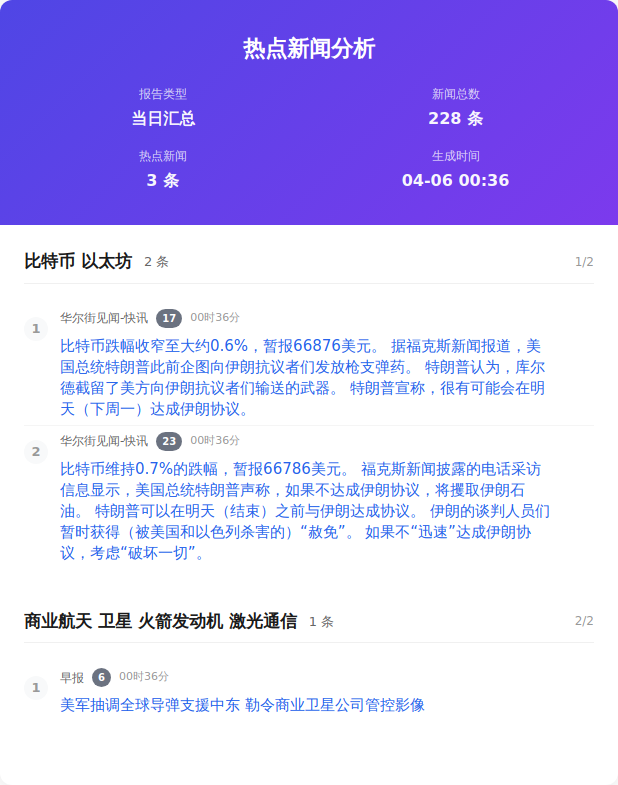
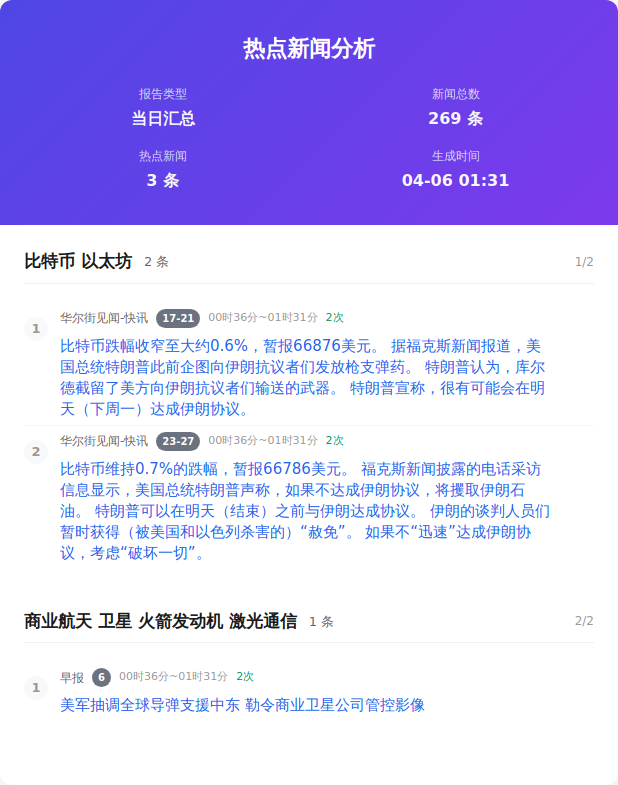
Auto update by GitHub Actions at Mon Apr  6 01:31:34 CST 2026

diff --git a/output/2026年04月06日/html/当日汇总.html b/output/2026年04月06日/html/当日汇总.html
@@ -357,7 +357,7 @@
                     </div>
                     <div class="info-item">
                         <span class="info-label">新闻总数</span>
-                        <span class="info-value">228 条</span>
+                        <span class="info-value">269 条</span>
                     </div>
                     <div class="info-item">
                         <span class="info-label">热点新闻</span>
@@ -365,7 +365,7 @@
                     </div>
                     <div class="info-item">
                         <span class="info-label">生成时间</span>
-                        <span class="info-value">04-06 00:36</span>
+                        <span class="info-value">04-06 01:31</span>
                     </div>
                 </div>
             </div>
@@ -383,7 +383,7 @@
                         <div class="news-number">1</div>
                         <div class="news-content">
                             <div class="news-header">
-                                <span class="source-name">华尔街见闻-快讯</span><span class="rank-num ">17</span><span class="time-info">00时36分</span>
+                                <span class="source-name">华尔街见闻-快讯</span><span class="rank-num ">17-21</span><span class="time-info">00时36分~01时31分</span><span class="count-info">2次</span>
                             </div>
                             <div class="news-title"><a href="https://wallstreetcn.com/livenews/3082650" target="_blank" class="news-link">比特币跌幅收窄至大约0.6%，暂报66876美元。 据福克斯新闻报道，美国总统特朗普此前企图向伊朗抗议者们发放枪支弹药。 特朗普认为，库尔德截留了美方向伊朗抗议者们输送的武器。 特朗普宣称，很有可能会在明天（下周一）达成伊朗协议。</a>
                             </div>
@@ -393,7 +393,7 @@
                         <div class="news-number">2</div>
                         <div class="news-content">
                             <div class="news-header">
-                                <span class="source-name">华尔街见闻-快讯</span><span class="rank-num ">23</span><span class="time-info">00时36分</span>
+                                <span class="source-name">华尔街见闻-快讯</span><span class="rank-num ">23-27</span><span class="time-info">00时36分~01时31分</span><span class="count-info">2次</span>
                             </div>
                             <div class="news-title"><a href="https://wallstreetcn.com/livenews/3082644" target="_blank" class="news-link">比特币维持0.7%的跌幅，暂报66786美元。 福克斯新闻披露的电话采访信息显示，美国总统特朗普声称，如果不达成伊朗协议，将攫取伊朗石油。 特朗普可以在明天（结束）之前与伊朗达成协议。 伊朗的谈判人员们暂时获得（被美国和以色列杀害的）“赦免”。 如果不“迅速”达成伊朗协议，考虑“破坏一切”。</a>
                             </div>
@@ -412,7 +412,7 @@
                         <div class="news-number">1</div>
                         <div class="news-content">
                             <div class="news-header">
-                                <span class="source-name">早报</span><span class="rank-num ">6</span><span class="time-info">00时36分</span>
+                                <span class="source-name">早报</span><span class="rank-num ">6</span><span class="time-info">00时36分~01时31分</span><span class="count-info">2次</span>
                             </div>
                             <div class="news-title"><a href="https://www.zaochenbao.com/news/politics/202604/0568622.html" target="_blank" class="news-link">美军抽调全球导弹支援中东 勒令商业卫星公司管控影像</a>
                             </div>